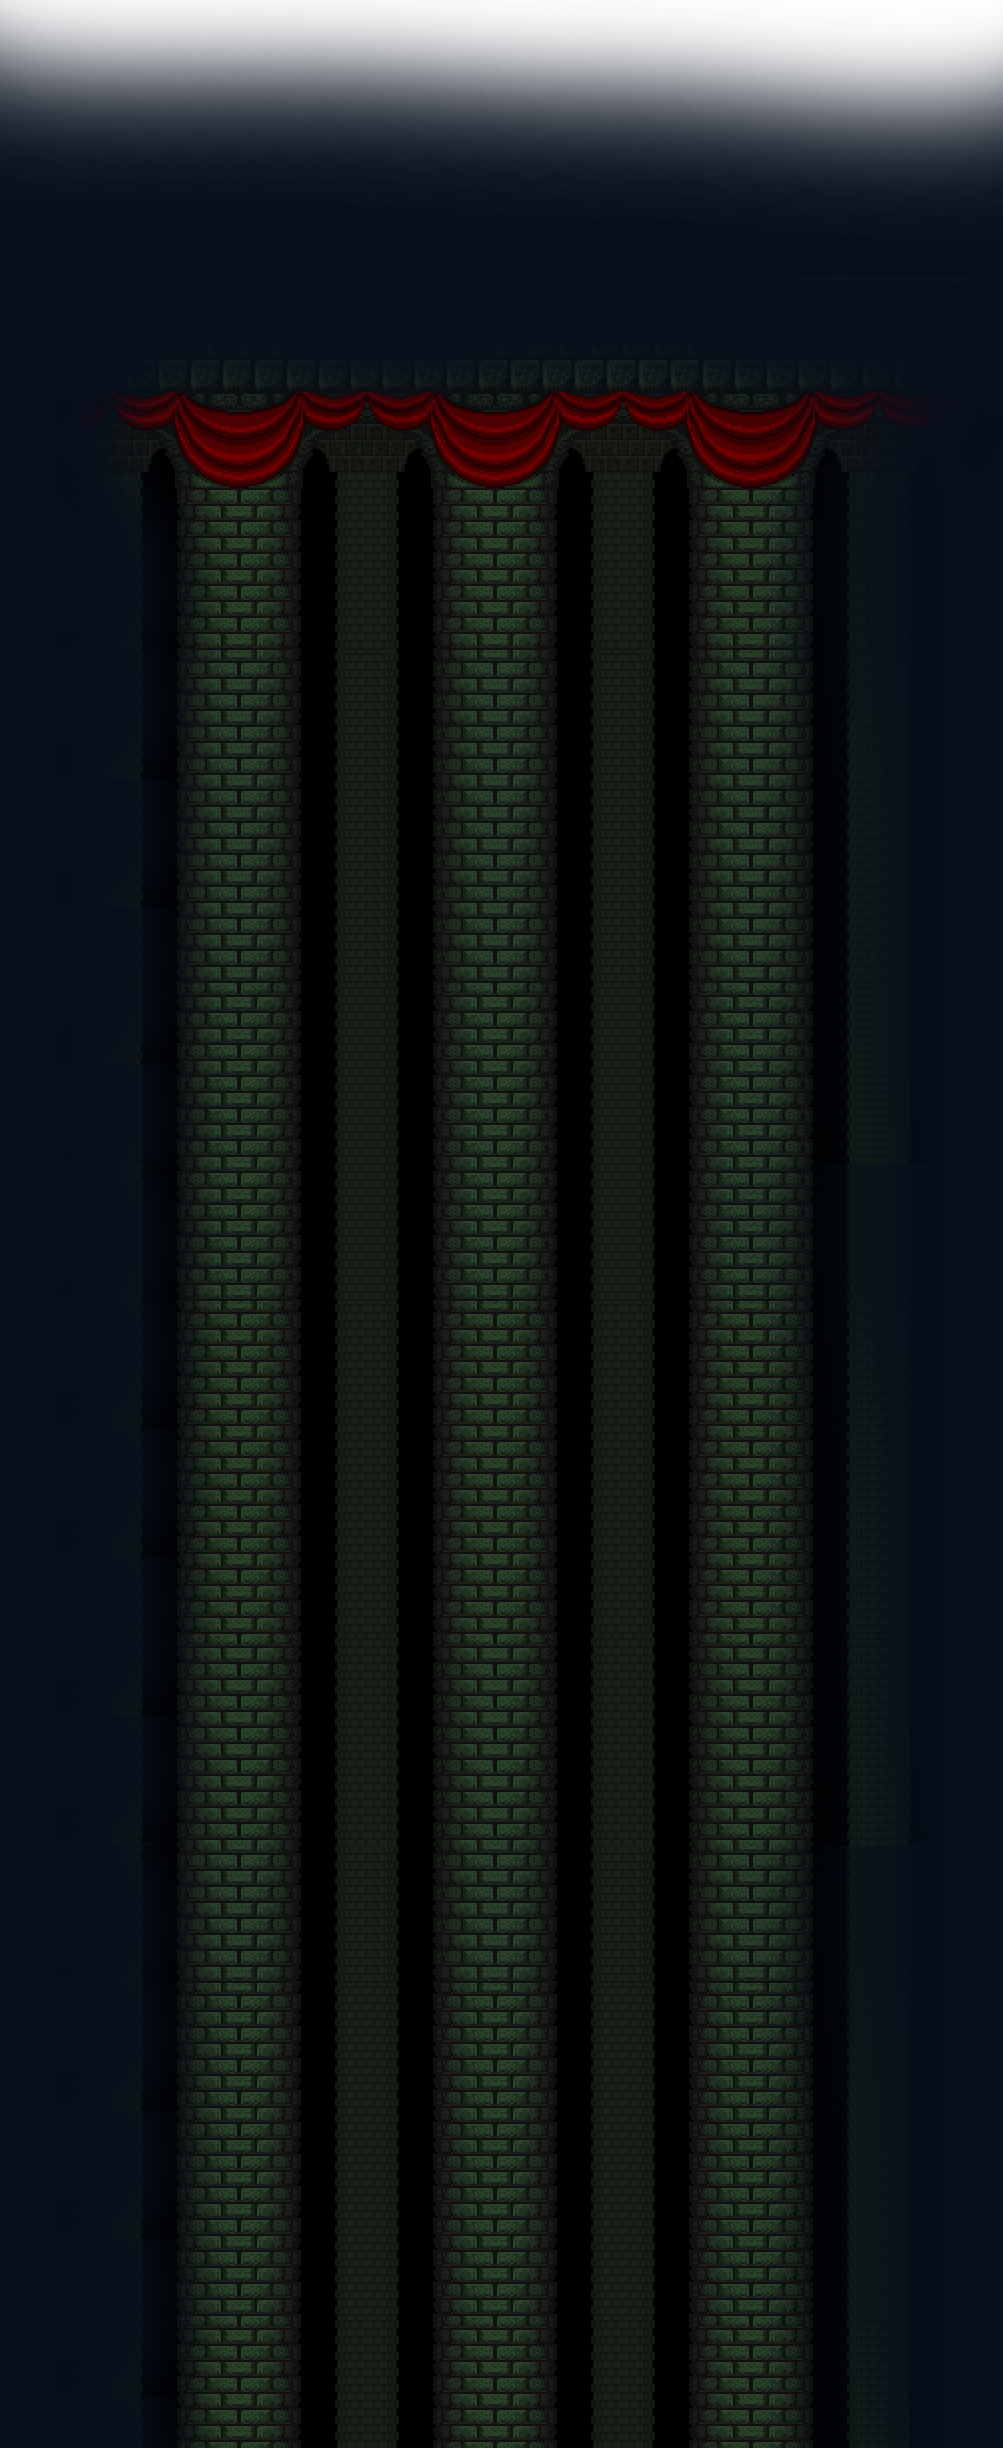
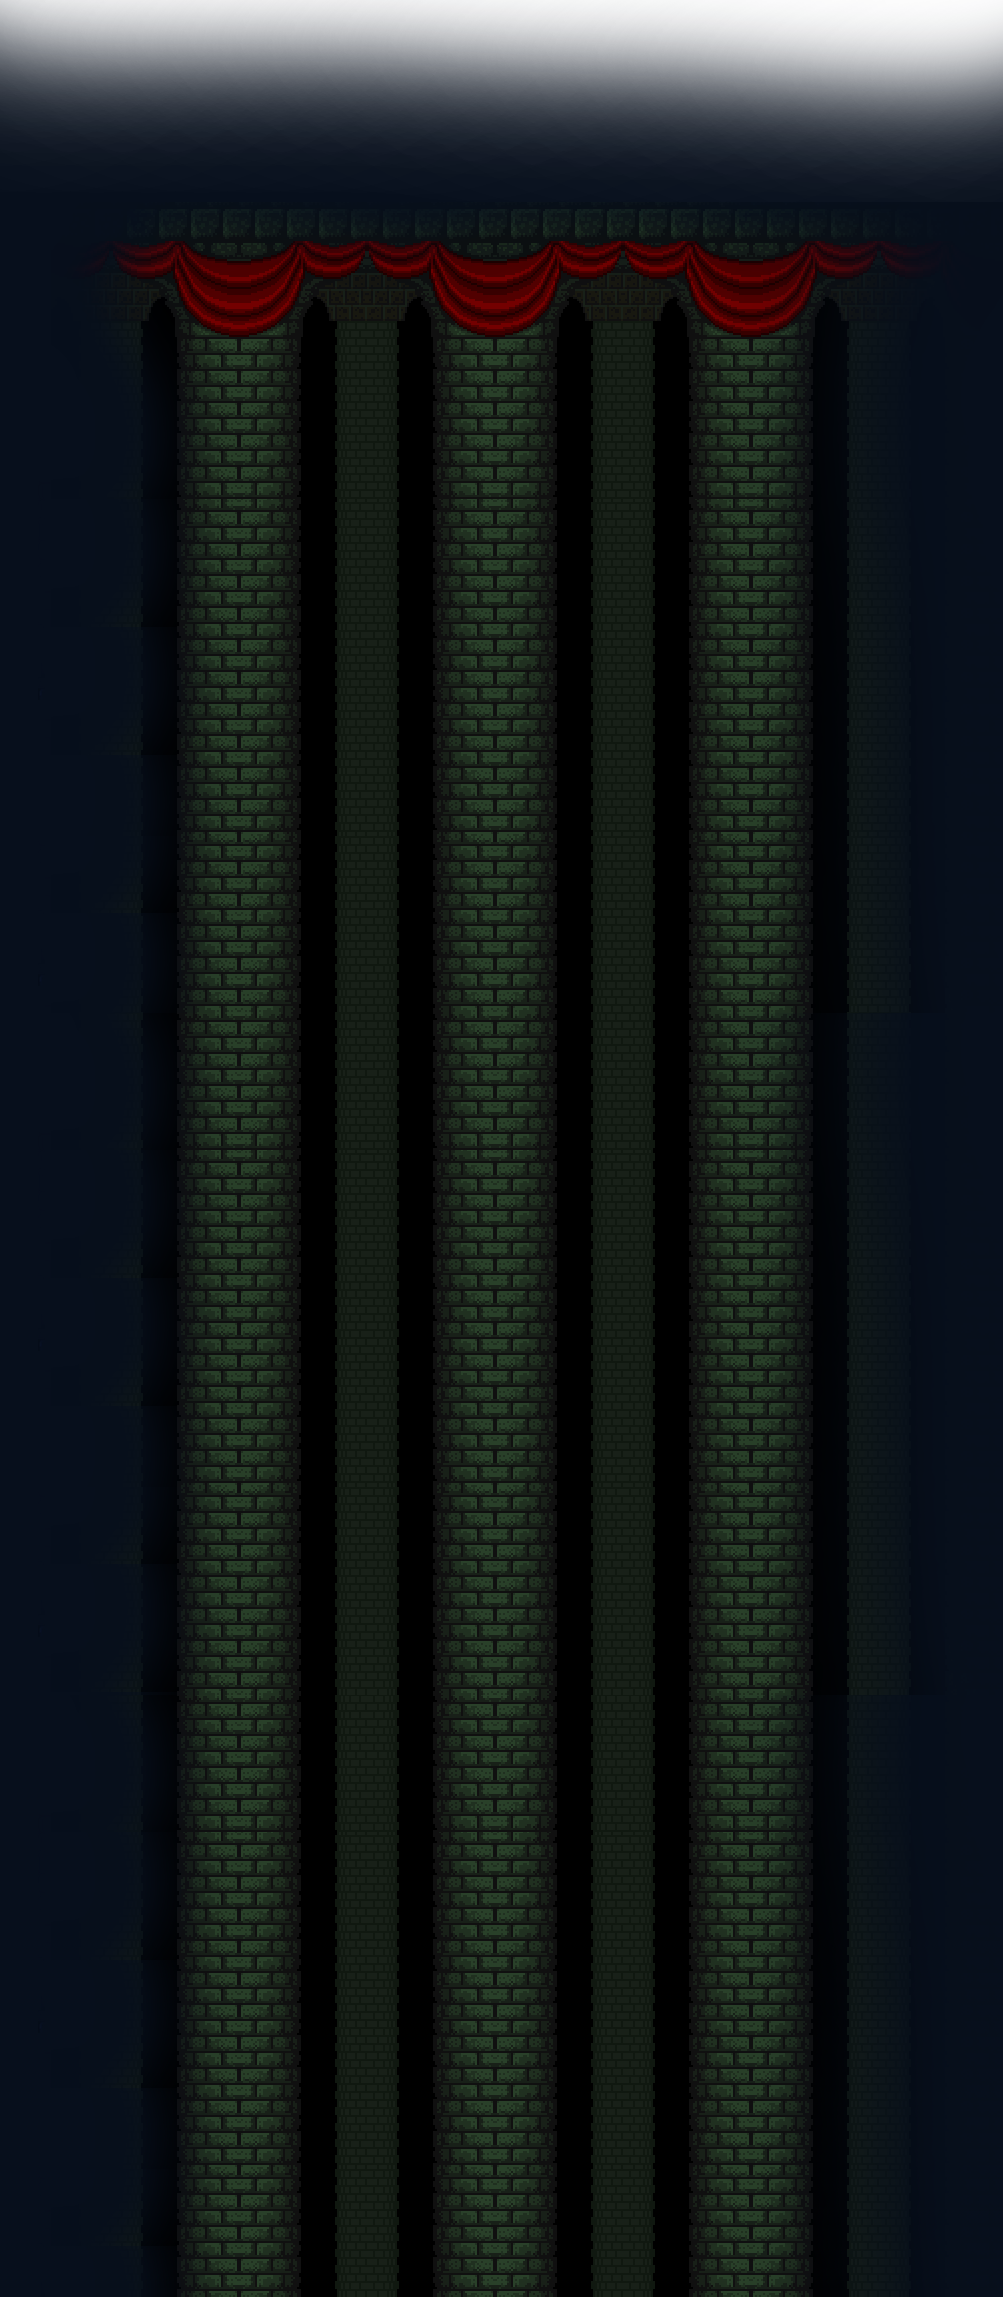
Fix distribucion mobil

diff --git a/src/Views/MobileVersion.jsx b/src/Views/MobileVersion.jsx
@@ -49,20 +49,7 @@ const MobileVersion = () => {
   };
 
   return (
-    <Box
-      onClick={handleJump}
-      sx={{
-        height: '100vh',
-        display: 'flex',
-        flexDirection: 'column',
-        backgroundImage: `url(${cielo})`,
-        backgroundSize: 'cover',
-        backgroundPosition: 'center',
-        backgroundRepeat: 'no-repeat',
-        overflow: 'auto',
-        position: 'relative',
-      }}
-    >
+    <Box onClick={handleJump} sx={{ height: '100vh', display: 'flex', flexDirection: 'column', backgroundImage: `url(${cielo})`, backgroundSize: 'cover', backgroundPosition: 'center', backgroundRepeat: 'no-repeat', overflow: 'auto', position: 'relative' }}>
       <AppBar
         position="absolute"
         sx={{
@@ -144,7 +131,7 @@ const MobileVersion = () => {
           <img src={QuestionBox} alt="InfoBox" style={{ width: '50px', height: 'auto' }} />
         </Box>
 
-        <Box style={{ marginTop: -100, paddingTop: 500, backgroundImage: `url(${FondoLobby})`, backgroundSize: 'cover', backgroundPosition: 'center', width: '100%', zIndex: 1 }}>
+        <Box style={{ marginTop: -50, paddingTop: 500, backgroundImage: `url(${FondoLobby})`, backgroundSize: 'cover', backgroundPosition: 'center', width: '100%', zIndex: 1 }}>
           {/* Contenedor relativo para posicionar el ícono JS */}
           <Box style={{ position: 'relative', margin: '0px 60px 30px 10px' }}>
             
